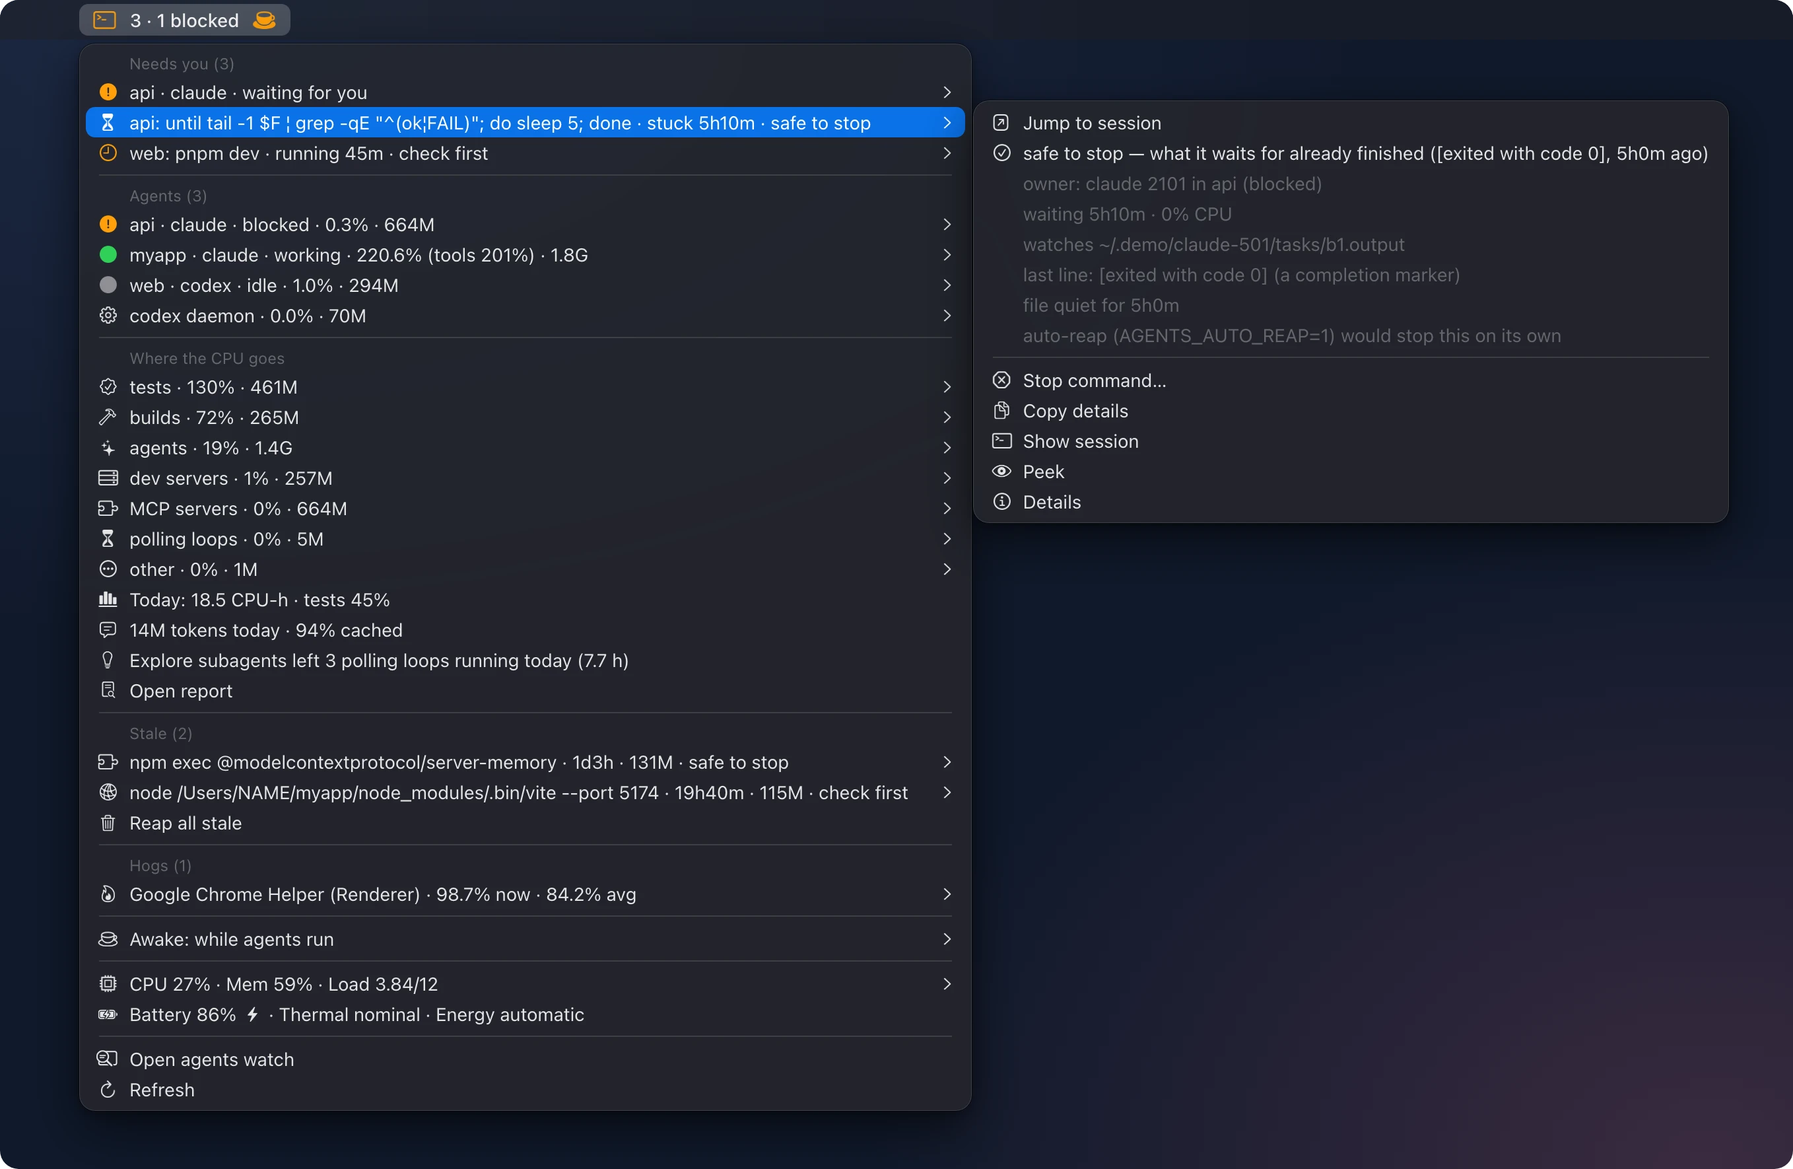
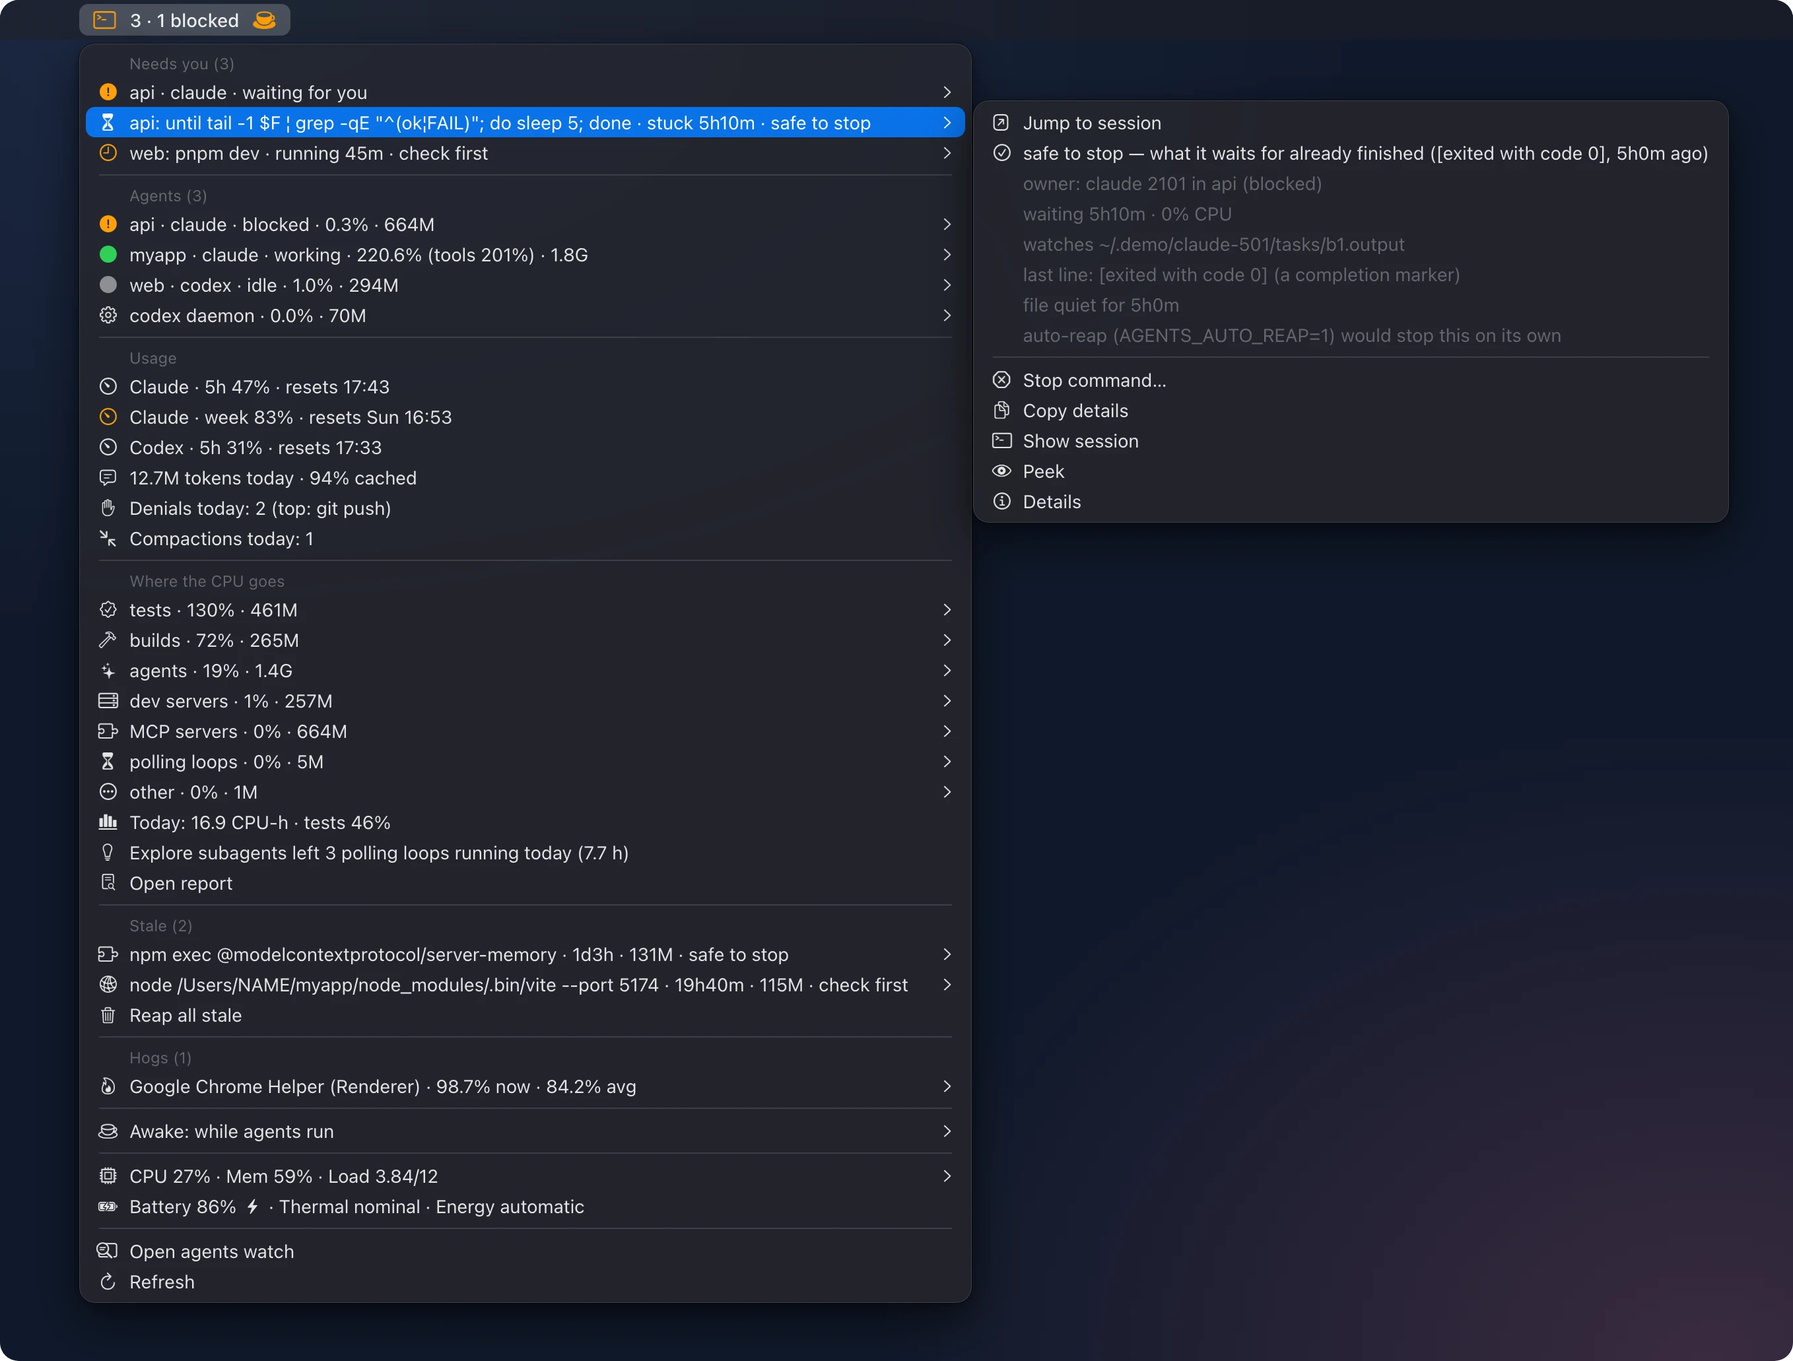
fix(agents): review findings; gate the agy probe on use
Plus the 3.11.0 changelog and re-rendered screenshots.

Changed region(s): [[0.0309, 0.0, 0.9588, 0.9633]]

diff --git a/docs/agent-workflows.md b/docs/agent-workflows.md
@@ -218,7 +218,7 @@ agents report --view tokens  # where the tokens went: by model, agent and projec
 agents limits             # each CLI's usage limits: % used per window, when it resets, how old the reading is
 ```
 
-- **Agents** are processes named `claude` or `codex` (`AGENTS_NAMES` adds more): one row per tree, with its project (the directory's name, or `repo/name` for a worktree under `.claude/worktrees/`), tree CPU and memory, child count, cwd, listening ports and, when Herdr is running, its status and task title for the pane it runs in. That pane is exact: every process started in a Herdr pane has `HERDR_PANE_ID` in its environment, which `agents` reads for the sessions running under Herdr (one `ps -E` on macOS, `/proc/PID/environ` on Linux), so two sessions in one directory each get their own pane. Without it, a session matches by kind and directory only when exactly one Herdr agent and one session share them. Sessions waiting for you (Herdr's `blocked`) come first, then `working`, then `idle` and `done`, then sessions without a status. Herdr's answer is cached for ten seconds in `~/.config/tuidev/run/`; once that is stale, it is asked again first (it answers in milliseconds), the menu bar waiting at most a second, and only when Herdr is slower does the menu show the cached answer (under a minute old) and refresh it in the background. The Codex app-server daemon (`codex app-server … --managed-daemon` and its `pid-update-loop`) is long-lived by design: it gets its own `daemon` row and is never stale. `claude --chrome-native-host`, the browser bridge Chrome starts, is not a session.
+- **Agents** are processes named `claude`, `codex`, `agy`, `grok` or `cursor-agent` (`AGENTS_NAMES` changes the list): one row per tree, with its project (the directory's name, or `repo/name` for a worktree under `.claude/worktrees/`), tree CPU and memory, child count, cwd, listening ports and, when Herdr is running, its status and task title for the pane it runs in. That pane is exact: every process started in a Herdr pane has `HERDR_PANE_ID` in its environment, which `agents` reads for the sessions running under Herdr (one `ps -E` on macOS, `/proc/PID/environ` on Linux), so two sessions in one directory each get their own pane. Without it, a session matches by kind and directory only when exactly one Herdr agent and one session share them. Sessions waiting for you (Herdr's `blocked`) come first, then `working`, then `idle` and `done`, then sessions without a status. Herdr's answer is cached for ten seconds in `~/.config/tuidev/run/`; once that is stale, it is asked again first (it answers in milliseconds), the menu bar waiting at most a second, and only when Herdr is slower does the menu show the cached answer (under a minute old) and refresh it in the background. The Codex app-server daemon (`codex app-server … --managed-daemon` and its `pid-update-loop`) is long-lived by design: it gets its own `daemon` row and is never stale. `claude --chrome-native-host`, the browser bridge Chrome starts, is not a session.
 - **What sessions run.** Under each session, `agents ls` lists its MCP servers on one line and its busiest commands (`AGENTS_LS_TOOLS`), and `agents ps PID` lists everything:
 
   ```
@@ -303,7 +303,7 @@ verdict   informational — part of a live session; it ends with the session (hi
 
 ### MCP servers by name
 
-`agents mcp [DIR]` lists the MCP servers your CLIs are configured with: Claude Code's from `~/.claude.json` (user scope, and each project's local scope), each project's `.mcp.json` and each enabled plugin's `.mcp.json` and `.claude-plugin/plugin.json` (its `mcpServers`, inline or in a file of the plugin); Codex's from `config.toml`'s `[mcp_servers.NAME]` tables. With `DIR`, only those a session started there loads. MCP-server processes go by these names everywhere: `agents ls` (`mcp: 2 servers · 4 procs · 449M (playwright, sentula)`), `ps`, `json`, `tsv` and the menu. A process matches a server by the one word that starts it (an npx or uvx package without its version, a program's name, a script's path), as a whole word of its command line (or a path's tail, a package under `node_modules/`), never inside another. A flag's value is never that word, nor is one too common to name a server (a tool such as `ssh` or `cargo`, a word under five letters, `dist/index.js`); a process that matches none is named by its package (`@playwright/mcp` → `playwright`, `chrome-devtools-mcp` → `chrome-devtools`). A configured server whose command line does not say `mcp` (`node ~/srv/index.js`) is counted as an MCP server too. Of a server's configuration, agents keeps only its name, scope, source, transport and that word: never the rest of its args, its env, headers or URL. The inventory is cached in `~/.config/tuidev/run/mcp.tsv` (private) and rebuilt when a config file changes (even while it is being built), in the background for the menu (at most every 30 s). Without jq only Codex's servers are known.
+`agents mcp [DIR]` lists the MCP servers your CLIs are configured with: Claude Code's from `~/.claude.json` (user scope, and each project's local scope), each project's `.mcp.json` and each enabled plugin's `.mcp.json` and `.claude-plugin/plugin.json` (its `mcpServers`, inline or in a file of the plugin); Codex's from `config.toml`'s `[mcp_servers.NAME]` tables. With `DIR`, only those a session started there loads. MCP-server processes go by these names everywhere: `agents ls` (`mcp: 2 servers · 4 procs · 449M (playwright, billing)`), `ps`, `json`, `tsv` and the menu. A process matches a server by the one word that starts it (an npx or uvx package without its version, a program's name, a script's path), as a whole word of its command line (or a path's tail, a package under `node_modules/`), never inside another. A flag's value is never that word, nor is one too common to name a server (a tool such as `ssh` or `cargo`, a word under five letters, `dist/index.js`); a process that matches none is named by its package (`@playwright/mcp` → `playwright`, `chrome-devtools-mcp` → `chrome-devtools`). A configured server whose command line does not say `mcp` (`node ~/srv/index.js`) is counted as an MCP server too. Of a server's configuration, agents keeps only its name, scope, source, transport and that word: never the rest of its args, its env, headers or URL. The inventory is cached in `~/.config/tuidev/run/mcp.tsv` (private) and rebuilt when a config file changes (even while it is being built), in the background for the menu (at most every 30 s). Without jq only Codex's servers are known.
 
 Every session starts its own copy of each server it loads: five Claude Code sessions with `chrome-devtools` at user scope run five copies, and one started as `npx chrome-devtools-mcp@latest` is three processes (the `npm exec` wrapper, the server and its node child, about 170 MB together). An http server runs no local process. So `agents mcp` also says what runs of each server now, from one `ps` and the classify pass: its copies (each session's, and any a stale tree left behind) and their memory in use (RSS, resident memory, not data sent). A Claude Code server at user scope that runs in more than one session gets a hint, since that scope starts it everywhere; stale copies get one too:
 
@@ -591,7 +591,7 @@ REPEATED
 
 #### Waits: how long agents wait on you
 
-An agent that stops to ask (a permission prompt, a question) or that has finished costs no CPU, but it costs your time: nothing moves until you look. Two files measure that, so `agents report` can say "Agents waited on you 47 min today (top: sentula 20 min; 12 notifications, 9 banners skipped while you were at the Mac)".
+An agent that stops to ask (a permission prompt, a question) or that has finished costs no CPU, but it costs your time: nothing moves until you look. Two files measure that, so `agents report` can say "Agents waited on you 47 min today (top: billing 20 min; 12 notifications, 9 banners skipped while you were at the Mac)".
 
 - `waits.tsv` (`agents sample`, once a minute): `epoch project agent status session secs`, one row per session that [Herdr](#fleet-attention--herdr---pack-herdr) shows `blocked` (waiting for your answer) or `done` (finished, not yet looked at) at that sample. `session` is its `PID@START`; `secs` is the time since the previous sample, at most 5 minutes (60 s for the first), so a Mac that slept or a menu that wasn't running doesn't count as hours of waiting. Only sessions in Herdr panes have a status; others are not counted.
 - `notify.tsv` (`notify.sh`, at each notification): `epoch session project kind channels banner_skipped`. `session` is the agent session's `PID@START` (`-` when `agents` finds none), `project` the hook's directory as `agents` names it (`CLAUDE_PROJECT_DIR`, else the working directory), `kind` the hook's subtitle (`Permission`, `Idle`, `Agent Teams`, `Auto mode`; `-` for none), `channels` those that showed it (`herdr`, `tmux`, `banner`, `osascript`, `notify-send`, `ntfy`, or `none`), and `banner_skipped` `present` (you were at the Mac, in front of the session: [Notifications](#notifications)) or `remote` (a session reached over ssh), else `-`. Never the message. `notify.sh` appends only when the monitoring pack's data directory already exists, so without the pack it writes nothing anywhere.
@@ -608,7 +608,7 @@ WAITED ON YOU  63 min · blocked 43 min · done, unseen 20 min · 2 sessions
 NOTIFICATIONS  10 · Permission 8 · other 1 · Idle 1 · 6 banners skipped (5 while you were at the Mac, 1 for ssh sessions)
 
   PROJECT                    WAITED  BLOCKED     DONE  NOTIFIED  SKIPPED
-  sentula                    45 min   25 min   20 min         8        5
+  billing                    45 min   25 min   20 min         8        5
   app                        18 min   18 min        -         1        1
   notes                           -        -        -         1        0
 
@@ -767,7 +767,7 @@ Don't watch panes. `~/.local/bin/notify.sh` (from `scripts/notify.sh`) is called
 5. An [ntfy](https://ntfy.sh) push, when `NTFY_URL` is set (for example `export NTFY_URL=https://ntfy.sh/your-topic` in `~/.zshrc.local`), and only when none of 1 to 4 showed it
 6. Nothing: it stays silent and always exits 0
 
-The first of 1 and 2 that works shows it in your terminal. On a Mac the banner shows it too, because a toast or a status line can't be seen from another app. There are two exceptions. The first is a Herdr session when you are at the Mac looking at the terminal that shows it: the screen is unlocked, a key or the mouse moved in the last 2 minutes, and the app in front is the one `agents` says the session's Herdr client runs in. Then the toast and Herdr's own sound are the one alert, not a toast and a banner that both chime. A detached session (no client shows it), tmux (its status-line message is silent and gone in under a second) and a plain terminal tab keep the banner. The second is a session you reach over ssh, where the Mac's screen isn't yours to look at. That is the session's `SSH_CONNECTION` or `SSH_TTY`, unless `agents root-of` finds it in a terminal app on this Mac: a tmux server started over ssh keeps those variables in every pane after you attach to it at the Mac, and the live answer wins. Anywhere else, the first of 3 to 5 that works shows it. Linux behaves as before: Herdr or tmux, else `notify-send`, else ntfy.
+The first of 1 and 2 that works shows it in your terminal. On a Mac the banner shows it too, because a toast or a status line can't be seen from another app. There are two exceptions. The first is a Herdr session when you are at the Mac looking at the terminal that shows it: the screen is unlocked, a key or the mouse moved in the last 2 minutes, and the app in front is the one `agents` says the session's Herdr client runs in. Then the toast and Herdr's own sound are the one alert, not a toast and a banner that both chime. A detached session (no client shows it), tmux (its status-line message is silent and gone in under a second) and a plain terminal tab keep the banner. The check knows the app in front, not the window: if you keep other windows of the same terminal app open that don't show Herdr, its toast can land where you aren't looking, so set `TUIDEV_NOTIFY_BANNER=always`. The second is a session you reach over ssh, where the Mac's screen isn't yours to look at. That is the session's `SSH_CONNECTION` or `SSH_TTY`, unless `agents root-of` finds it in a terminal app on this Mac: a tmux server started over ssh keeps those variables in every pane after you attach to it at the Mac, and the live answer wins. Anywhere else, the first of 3 to 5 that works shows it. Linux behaves as before: Herdr or tmux, else `notify-send`, else ntfy.
 
 - **Being at the Mac is checked once, when the hook fires.** `ioreg` gives the lock state and the time since the last input, and `lsappinfo` the app in front. These take about 10 to 20 ms each, need no permission prompt, and run with no daemon and no state file. A check that fails or can't tell counts as away, so you get the banner as before.
 - **Tune it:** `TUIDEV_NOTIFY_PRESENT_IDLE` sets the idle limit in seconds (default 120). `TUIDEV_NOTIFY_BANNER=always` (or an idle limit of `0`) shows the banner inside Herdr whether you are there or not. Export them where the CLI starts, or in Claude Code's `env` setting.

diff --git a/CHANGELOG.md b/CHANGELOG.md
@@ -7,44 +7,84 @@ and this project adheres to [Semantic Versioning](https://semver.org/spec/v2.0.0
 
 ## [3.11.0] - 2026-10-16
 
-One alert when you're at your desk. When an agent in Herdr needed you, its
-toast and sound were followed by a macOS banner with a sound of its own.
-Now the banner comes only when you might miss the toast.
+Know where every agent stands, and how much plan you have left. The menu
+matches each session to its exact Herdr pane and names it by its task,
+lists finished work beside the questions waiting for you, shows every CLI's
+usage limits, and measures how long agents wait on you. And when you're at
+your desk, an agent that needs you rings once, not twice.
+
+### Added
+
+- **Usage limits for every CLI.** A new Usage section in the menu and a
+  new `agents limits` command show how much of each plan window is used and
+  when it resets: Claude Code's 5-hour and weekly limits, Codex's plan
+  windows, and Antigravity's quotas per model group. A window turns orange
+  at 80% and red at 95%, which also tints the icon. The section also shows
+  today's tokens, denials (with the top reason) and compactions, and a
+  `limit` title token can show the highest share.
+  - Claude Code reports its limits only to its status line, so the shipped
+    settings run `agents statusline`, which records them and prints a
+    compact line (`Opus 5.5 · ctx 42% · 5h 24% · wk 41%`). A status line of
+    your own is kept; set `AGENTS_STATUSLINE_CMD` to run it behind ours.
+  - Codex readings come from its logs, and Antigravity's from
+    `agy -p /quota` (no tokens), at most every 10 minutes and only after
+    you used Antigravity. Grok and
+    Cursor's CLIs don't expose their limits locally.
+- **More CLIs.** Antigravity (`agy`), Grok and Cursor's CLI sessions count
+  in `agents` and the menu, and Grok's tokens join the token report.
+- **How long agents wait on you.** `agents report --view waits` shows how
+  long sessions in Herdr panes waited for your answer (blocked) or sat
+  finished and unseen (done), by project, beside the notifications they
+  sent and the banners skipped. Half an hour or more of waiting becomes an
+  insight the menu can show: "Agents waited on you 47 min today (top:
+  billing 20 min; 12 notifications)". `notify.sh` logs each notification
+  to `notify.tsv` (session, project, kind and channels, never the message).
+  Both files are private, pruned with the history, and off with
+  `AGENTS_HISTORY=0`.
 
 ### Changed
 
+- **Every session in its exact Herdr pane.** An agent started in Herdr
+  carries `HERDR_PANE_ID`, which `agents` reads in one `ps` (or from
+  `/proc` on Linux), so two sessions in one directory no longer swap
+  statuses, and `agents jump` and `peek` go straight to the pane. Rows show
+  Herdr's task title ("Fix the login flow · app · claude · working").
+- **Finished sessions in Needs you.** Sessions Herdr marks done ("finished,
+  to review") follow the blocked ones, with `· N done` in the title. They
+  never tint the icon.
+- **The menu keeps up with Herdr.** It asks Herdr again when its 10-second
+  cache is stale, waiting at most a second, instead of showing what Herdr
+  said a minute ago.
 - **The banner waits until you're away.** Inside Herdr on a Mac,
   `notify.sh` skips the macOS banner while you're at the Mac looking at the
   session's terminal: the screen is unlocked, a key or the mouse moved in
-  the last 2 minutes, and the terminal app that the session's Herdr client
-  runs in is in front. It checks once, when the
-  hook fires, with `ioreg` and `lsappinfo` (about 10 to 20 ms each, no
-  permission prompt, no daemon). A check that fails counts as away, so you
-  get the banner as before. `TUIDEV_NOTIFY_PRESENT_IDLE` sets the idle limit
-  (seconds), and `TUIDEV_NOTIFY_BANNER=always` keeps the old behavior. A
-  detached Herdr session, tmux (whose status-line message is silent and
-  brief) and a plain terminal tab still get the banner.
-- **Notifications say what they are about.** Claude Code's Notification
-  hook passes JSON on stdin, so with `jq` installed, the toast and banner
-  show its message (for example "Claude needs your permission to use
-  Bash") instead of the hook's fixed text.
-- **`make check` follows Herdr upgrades.** With `--pack herdr`, it lists
-  the agent integrations that `herdr integration status` reports as
-  `outdated`, with the `herdr integration install NAME` command for each,
-  and warns while the running server is still on the old binary. Herdr 0.9.5
-  needs both: it no longer installs Codex turn hooks, and until you
-  reinstall, Codex sessions start with a "clamping Interrupt hook timeout"
-  warning.
+  the last 2 minutes, and the terminal app the session's Herdr client runs
+  in is in front. The toast and Herdr's own sound are the one alert. Checks
+  run once, when the hook fires (`ioreg`, `lsappinfo`: no daemon, no
+  permission prompt); one that fails counts as away, so the banner shows as
+  before. `TUIDEV_NOTIFY_PRESENT_IDLE` sets the idle limit and
+  `TUIDEV_NOTIFY_BANNER=always` keeps the old behavior. A detached Herdr
+  session, tmux and a plain terminal tab keep the banner.
+- **Notifications say what they are about.** With `jq` installed, the
+  toast and banner show Claude Code's own message ("Claude needs your
+  permission to use Bash") instead of the hook's fixed text.
+- **Herdr upgrades are followed through.** `make check` and the menu (an
+  hourly background check) name the integrations `herdr integration
+  status` reports as outdated, with the command for each, and a running
+  server older than its client. Herdr 0.9.5 needs both: it no longer
+  installs Codex turn hooks, and until you reinstall, Codex sessions start
+  with a "clamping Interrupt hook timeout" warning.
 - **Herdr 0.9.4 and 0.9.5 in the docs.** Closing the shell that started
   Herdr no longer stops its server (stop it with `herdr server stop` or
   `SIGTERM`, not `SIGHUP`), and a Mac restart keeps your agents' sessions.
   A Ghostty `text:` keybind can send the prefix and a key in one press:
   `keybind = cmd+shift+o=text:\x02o` opens the last notification's pane.
-  The pack's hints mention Codex alongside Claude Code.
-- **Phone pushes are documented as an escalation.** ntfy only fires when
-  nothing on the machine could show the notification. If another service
-  already pushes to your phone when an agent waits, leave `NTFY_URL` unset.
-- **Codex 0.163:** `/daemon` can restart the background server.
+- **Phone pushes are an escalation.** ntfy fires only when nothing on the
+  machine could show the notification. If another service already pushes
+  to your phone when an agent waits, leave `NTFY_URL` unset.
+- MCP servers whose copies are all idle `mcp-lazy` proxies read "4 lazy
+  proxies · server not started", not "4 copies".
+- Codex 0.163: `/daemon` can restart the background server.
 
 ## [3.10.1] - 2026-10-15
 
